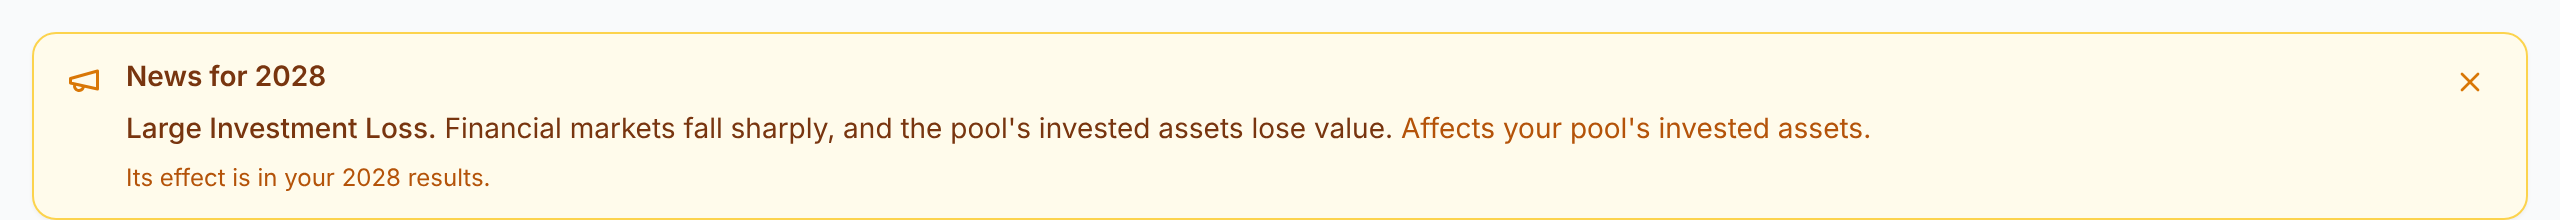
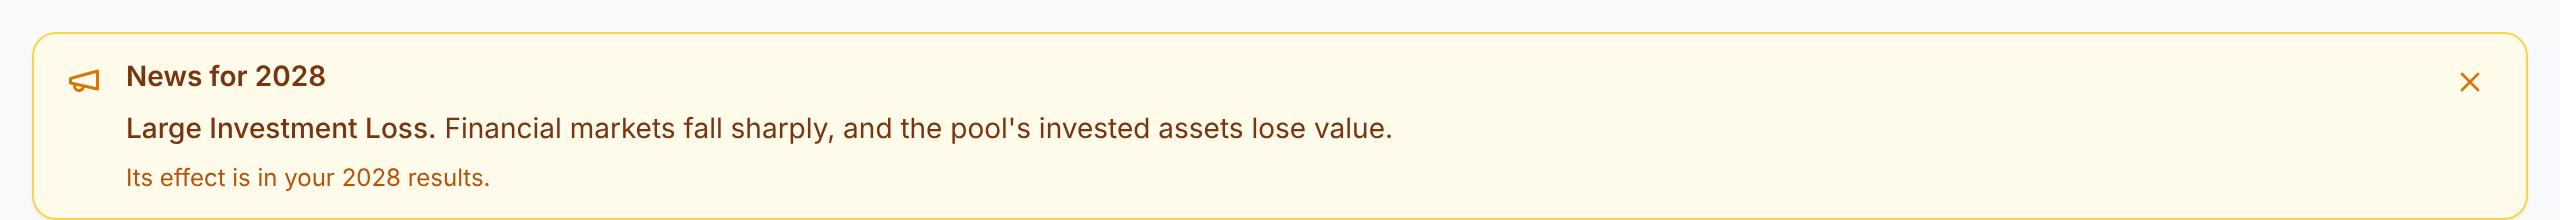
No region or "in force since" on the Results card, Events This Year and claims; Investment Loss names no lines
- Large Investment Loss: the banner's "Affects your pool's invested assets."
  and Events so far's "(investments)" are gone; its sentence says it.
- eventLabel is the player name alone: the Results page events card, the
  "Events This Year" results row and the claims list and download
  (claimEventLabel) no longer name a region. The Results card no longer prints
  "in force since year N". All hidden today; held anyway. The Year
  Walkthrough keeps its region row.
- event-news-coverage-check part 5: every year, pool and line, the Events
  This Year row and every event claim's label, scanned for a region, "in
  force since" and a duration; a regional event's claims carry its name; the
  Results card's source prints no start year. Controls: a region back in the
  row, a region back on the claims, "in force since year {…}" back on the card.
  claims-workbook-check expects "Earthquake" / "Catastrophe" alone.
- event-news-all 159/159: Investment Loss's banner and Events so far row carry
  no lines line. Its banner screenshot retaken.
- SOLO_EXPORT_GUARD_v137: 4 MAMC6EA4 Property workbooks, 16 rows, every one
  the Events This Year row with " — South region" removed. Render holds at v138.

Claude-Session: https://claude.ai/code/session_01VMrLqpEBTHUf5CMsbo4smM

Changed region(s): [[0.5312, 0.5182, 0.75, 0.6273]]

diff --git a/scripts/diagnostics/event-news-coverage-check.ts b/scripts/diagnostics/event-news-coverage-check.ts
@@ -28,6 +28,10 @@
 //   4. ONE NAME: the Year Walkthrough's name for every catalogue key is the
 //      player's, the host's label is '#n Name', and the Year Walkthrough gives
 //      Investment Loss and Member Withdrawal their rows.
+//   5. THE RESULTS CARD, THE "EVENTS THIS YEAR" ROW AND THE CLAIMS name an
+//      event by its player name alone — no region, no "in force since year N"
+//      (hidden today, held anyway). The Year Walkthrough keeps its region row.
+//   Investment Loss names no lines: its sentence says what it touched.
 //
 // ⚠ THE EXPECTATIONS ARE WRITTEN OUT HERE — the names, the wording, the years —
 // not read from the code they grade. Each part has a CONTROL that breaks it at
@@ -39,12 +43,15 @@ import { runPriorHistory } from '../../src/utils/priorHistoryEngine';
 import { defaultDecisionSet } from '../../src/utils/decisionDefaults';
 import { processYear } from '../../src/utils/simulationEngine';
 import { seedFromInstanceId } from '../../src/seedHash';
-import { eventDescription, eventNewsByYear, EVENT_DESCRIPTIONS, type EventNews } from '../../src/utils/yearEvents';
+import { claimEventLabel, eventDescription, eventLabel, eventNewsByYear, EVENT_DESCRIPTIONS, yearEvents, type EventNews } from '../../src/utils/yearEvents';
+import { RESULT_METRICS } from '../../src/utils/resultMetrics';
+import { readFileSync } from 'node:fs';
+import { fileURLToPath } from 'node:url';
 import {
   catalogueDisplayName, hostShockLabel, POOL_WIDE_EVENTS, SHOCK_EVENTS, SHOCK_EVENT_LABELS,
 } from '../../src/utils/shockLosses';
 import { buildYearWalkthrough } from '../../src/utils/yearWalkthrough';
-import type { CoverageLine, GameSetupSettings, GameState, ResultSet } from '../../src/types/simulation';
+import type { Claim, CoverageLine, GameSetupSettings, GameState, LineResultSet, Occurrence, ResultSet } from '../../src/types/simulation';
 
 // ---- THE DESIGN, WRITTEN OUT ------------------------------------------------
 // id -> [player name, host name, regional, lines it touches (all three lines in play), WC alone touched?]
@@ -142,9 +149,8 @@ function partNews(): string[] {
     for (let y = 1; y <= YEARS; y++) if (y !== FIRE && banner(news, y).length) out.push(`${id}: a banner in year ${y} (${banner(news, y).map(x => x.label).join(' | ')})`);
     if (n.label !== name) out.push(`${id}: label "${n.label}", wanted "${name}"${regional ? ' (a regional event: no region)' : ''}`);
     if (JSON.stringify(n.lines) !== JSON.stringify(lines)) out.push(`${id}: lines ${n.lines.join(',')}, wanted ${lines.join(',')}`);
-    if (id === '#11' && !/invested assets/.test(n.affects ?? '')) out.push(`#11: says it affects "${n.affects}", wanted the invested assets`);
     if (n.description !== WORDING[id]) out.push(`${id}: description "${n.description}", wanted "${WORDING[id]}"`);
-    const extra = Object.keys(n).filter(k => !['key', 'label', 'description', 'lines', 'affects'].includes(k));
+    const extra = Object.keys(n).filter(k => !['key', 'label', 'description', 'lines'].includes(k));
     if (extra.length) out.push(`${id}: an extra field on the news (${extra.join(', ')})`);
     const rows = panel(news);
     if (!rows.some(r => r.y === FIRE && r.n.label === n.label)) out.push(`${id}: not in Events so far for ${2025 + FIRE}`);
@@ -172,6 +178,56 @@ function partNoDuration(): string[] {
     }
   }
   for (const name of Object.keys(EVENT_DESCRIPTIONS)) scan(`description of ${name}`, eventDescription(name));
+  return out;
+}
+
+// ---- 5. RESULTS, EVENTS THIS YEAR, CLAIMS -----------------------------------------
+// The Results page's events card, the "Events This Year" results row and the
+// claims list and download name an event by its player name alone: no region,
+// no "in force since year N" (pr/event-wording). The Year Walkthrough keeps its
+// region row (not read here). Each event's game, every year, the pool and each
+// line; every claim an event brought; and the card's source, which prints the
+// label.
+let metricOf = (r: LineResultSet) => String(RESULT_METRICS.find(m => m.key === 'yearEvents')!.value(r));
+let claimLabelOf = (c: Claim, o?: Occurrence) => claimEventLabel(c, o);
+let resultsPageSource = readFileSync(fileURLToPath(new URL('../../src/pages/ResultsPage.tsx', import.meta.url)), 'utf8');
+const SINCE = /in force|since year/i;
+function partResults(): string[] {
+  const out: string[] = [];
+  const scan = (where: string, text: string) => {
+    for (const [what, re] of [['region', REGION], ['"in force since"', SINCE], ['duration', DURATION]] as const) {
+      const m = text.match(re);
+      if (m) out.push(`${where}: ${what} "${m[0]}" in "${text}"`);
+    }
+  };
+  for (const [id, rs] of games) {
+    const [name, , regional] = DESIGN[id];
+    let named = 0;
+    for (const r of rs.filter(x => x.yearNumber >= 1)) {
+      const scopes: [string, LineResultSet][] = [['pool', r as unknown as LineResultSet],
+        ...Object.entries(r.byLine ?? {}).map(([l, x]) => [l, x] as [string, LineResultSet])];
+      for (const [scope, x] of scopes) {
+        scan(`${id} year ${r.yearNumber} ${scope} Events This Year`, metricOf(x));
+        for (const ev of yearEvents(x)) {
+          if (eventLabel(ev.name) !== ev.name) out.push(`${id} year ${r.yearNumber} ${scope}: card label "${eventLabel(ev.name)}", wanted "${ev.name}"`);
+        }
+        if (scope === 'pool') continue;
+        const occ = new Map((x.occurrences ?? []).map(o => [o.id, o]));
+        for (const c of x.claims ?? []) {
+          const label = claimLabelOf(c, c.occurrenceId !== undefined ? occ.get(c.occurrenceId) : undefined);
+          if (label === undefined) continue;
+          scan(`${id} year ${r.yearNumber} ${scope} claim ${c.id}`, label);
+          if (c.shockId === id && label === name) named++;
+        }
+      }
+    }
+    if (regional && named === 0) out.push(`${id}: no claim labelled "${name}" (the regional event's large claim)`);
+  }
+  // The card prints eventLabel and nothing after it.
+  // (What it prints, not its comments: the year it read off the event.)
+  const printed = resultsPageSource.match(/in force since year \{|\bev\.sinceYear\b/);
+  if (printed) out.push(`ResultsPage.tsx still prints the year an event began ("${printed[0]}")`);
+  if (/eventLabel\([^)]*region/.test(resultsPageSource)) out.push('ResultsPage.tsx passes a region to eventLabel');
   return out;
 }
 
@@ -221,6 +277,9 @@ console.log('4. One name');
 check(partNames(), "every catalogue key reads the player's name; the host's label is '#n Name'");
 check(partWalkthrough(), 'the Year Walkthrough gives Investment Loss and Member Withdrawal rows');
 
+console.log('5. Results card, "Events This Year" row, claims list and download');
+check(partResults(), 'the name alone: no region, no "in force since"');
+
 console.log('Controls');
 const pool = POOL_WIDE_EVENTS as string[];
 control('Investment Loss off the pool-wide list (the off-map read)', () => {
@@ -267,6 +326,21 @@ control('an extra field back on the news (a "lasting" line on Nuclear Verdict)',
   newsOf = rs => new Map([...real(rs)].map(([y, ns]) => [y, ns.map(n => (n.label === 'Nuclear Verdict' ? { ...n, lasting: 'It also makes older liability claims grow.' } : n))]));
   return () => { newsOf = real; };
 }, partNews);
+control('a region back in the "Events This Year" row ("Earthquake — Central region: 1 claim")', () => {
+  const real = metricOf;
+  metricOf = r => real(r).replace(/\bEarthquake\b/, 'Earthquake — Central region');
+  return () => { metricOf = real; };
+}, partResults);
+control('a region back on the claims ("Wildfire — North region")', () => {
+  const real = claimLabelOf;
+  claimLabelOf = (c, o) => { const l = real(c, o); return l === 'Wildfire' ? 'Wildfire — North region' : l; };
+  return () => { claimLabelOf = real; };
+}, partResults);
+control('"in force since year N" back on the Results card', () => {
+  const real = resultsPageSource;
+  resultsPageSource = real + '\n<span>in force since year {ev.sinceYear}</span>';
+  return () => { resultsPageSource = real; };
+}, partResults);
 control("#11's player name put back to the catalogue key", () => {
   const l = SHOCK_EVENT_LABELS['#11'] as { eventName: string };
   const n = l.eventName; l.eventName = 'Investment Loss'; return () => { l.eventName = n; };

diff --git a/src/utils/yearEvents.ts b/src/utils/yearEvents.ts
@@ -41,9 +41,14 @@ export function drawnEventName(peril: string | undefined): string {
   return (peril !== undefined ? DRAWN_EVENT_NAME[peril] : undefined) ?? 'Catastrophe';
 }
 
-/** "Earthquake — Central region", or the bare name when the event struck no one region. */
-export function eventLabel(name: string, region?: Region): string {
-  return region ? `${name} — ${region} region` : name;
+/**
+ * An event as a player reads it on the Results card, the "Events This Year"
+ * row and the claims: its player name alone. ⚠ NO REGION (pr/event-wording):
+ * players are not told where a regional event struck; the engine still places
+ * its large claim, and the Year Walkthrough keeps its region row.
+ */
+export function eventLabel(name: string): string {
+  return name;
 }
 
 export interface YearEventLine {
@@ -172,17 +177,11 @@ export function yearEvents(result: AnyResult): YearEvent[] {
 /** The event a claim came from, as a player reads it — or undefined for an ordinary claim. */
 export function claimEventLabel(claim: Claim, occurrence?: Occurrence): string | undefined {
   if (claim.shockId !== undefined) {
-    // ⚠ A REGIONAL EVENT NAMES THE REGION IT ACTUALLY STRUCK — the occurrence's.
-    // The retired catalogue fixed one region per event, but the new engine
-    // draws the struck region per firing; the catalogue's region is only the
-    // fallback when no occurrence is to hand, as it was before 3b.
-    const regional = SHOCK_EVENTS.find(e => e.id === claim.shockId)?.regional ?? false;
-    const fixed = RETIRED_CATALOGUE_REGION[claim.shockId]?.[claim.line];
-    return eventLabel(SHOCK_EVENT_LABELS[claim.shockId]?.eventName ?? claim.shockId,
-      regional ? (occurrence?.region ?? fixed) : fixed);
+    // ⚠ THE NAME ALONE, NO REGION (pr/event-wording) — eventLabel.
+    return eventLabel(SHOCK_EVENT_LABELS[claim.shockId]?.eventName ?? claim.shockId);
   }
   if (claim.line === 'Property' && claim.tier === CAT_TIER && occurrence?.isCatastrophe) {
-    return eventLabel(drawnEventName(occurrence.peril), occurrence.region);
+    return eventLabel(drawnEventName(occurrence.peril));
   }
   return undefined;
 }
@@ -271,10 +270,12 @@ export const EVENT_DESCRIPTIONS: Readonly<Record<string, string>> = {
 export function eventDescription(name: string): string {
   return EVENT_DESCRIPTIONS[name] ?? EVENT_DESCRIPTIONS['Catastrophe'];
 }
-/** What an off-map event touches, in place of the lines, where it is not the lines. */
-const OFF_MAP_AFFECTS: Readonly<Record<string, string>> = {
-  'Investment Loss': "your pool's invested assets",
-};
+/**
+ * The off-map events whose news names no lines: Investment Loss touches the
+ * invested assets, which its sentence already says, so the banner has no
+ * "Your lines affected" line for it and Events so far no lines in brackets.
+ */
+const NO_LINES: readonly string[] = ['Investment Loss'];
 
 export interface EventNews {
   /** Stable within the year. Not for display. */
@@ -282,10 +283,8 @@ export interface EventNews {
   /** The player's name, "Earthquake" — never a region. */
   label: string;
   description: string;
-  /** The team's own lines the event touched, in the game's line order. Empty when `affects` says what it touched instead. */
+  /** The team's own lines the event touched, in the game's line order. Empty for Investment Loss (NO_LINES): nothing more is said. */
   lines: CoverageLine[];
-  /** What it touched where that is not the lines — Investment Loss: "your pool's invested assets". */
-  affects?: string;
 }
 
 const NEWS_LINE_ORDER: readonly CoverageLine[] = ['WC', 'GL', 'Property'];
@@ -319,9 +318,9 @@ export function eventNewsByYear(results: readonly AnyResult[]): Map<number, Even
   const seen = new Set<string>();
   for (const r of [...results].filter(x => x.yearNumber >= 1).sort((a, b) => a.yearNumber - b.yearNumber)) {
     const news: EventNews[] = [];
-    const told = (key: string, name: string, lines: CoverageLine[], affects?: string) => {
+    const told = (key: string, name: string, lines: CoverageLine[]) => {
       // ⚠ THE PLAYER'S NAME ALONE — no region (pr/event-wording).
-      news.push({ key, label: name, description: eventDescription(name), lines, ...(affects ? { affects } : {}) });
+      news.push({ key, label: name, description: eventDescription(name), lines });
     };
     for (const ev of yearEvents(r)) {
       const id = `${ev.key}|${ev.sinceYear ?? r.yearNumber}`;
@@ -341,8 +340,7 @@ export function eventNewsByYear(results: readonly AnyResult[]): Map<number, Even
       const lines = recordLines(rec);
       if (lines.length === 0) continue;
       seen.add(id);
-      const affects = OFF_MAP_AFFECTS[e.name];
-      told(rec.shockId, shockName(rec), affects ? [] : lines, affects);
+      told(rec.shockId, shockName(rec), NO_LINES.includes(e.name) ? [] : lines);
     }
     out.set(r.yearNumber, news);
   }

diff --git a/src/components/EventNews.tsx b/src/components/EventNews.tsx
@@ -21,8 +21,8 @@ import { eventNewsByYear, type EventNews } from '../utils/yearEvents';
 import { LINE_FULL_NAME } from '../utils/lineDisplay';
 
 const linesText = (n: EventNews) => n.lines.map(l => LINE_FULL_NAME[l]).join(', ');
-/** The banner's "what it touched": the team's lines, or what it touched instead (Investment Loss: the invested assets). */
-const affectedText = (n: EventNews) => (n.affects ? `Affects ${n.affects}.` : `Your lines affected: ${linesText(n)}.`);
+/** The banner's "Your lines affected" — none for an event that names no lines (Investment Loss: its sentence says what it touched). */
+const affectedText = (n: EventNews) => (n.lines.length ? `Your lines affected: ${linesText(n)}.` : '');
 
 /** The banner: the events new in the year just played, until dismissed. */
 export function EventNewsBanner({ played, startingYear }: { played: ResultSet[]; startingYear: number }) {
@@ -70,7 +70,7 @@ export function EventsPanel({ played, startingYear }: { played: ResultSet[]; sta
               <span className="font-mono text-gray-500">{year}</span>{' '}
               <span className="font-medium">{n.label}</span>
               {' '}— {n.description}{' '}
-              <span className="text-gray-500">({n.affects ? 'investments' : linesText(n)})</span>
+              {n.lines.length > 0 && <span className="text-gray-500">({linesText(n)})</span>}
             </li>
           ))}
         </ul>

diff --git a/scripts/diagnostics/claims-workbook-check.ts b/scripts/diagnostics/claims-workbook-check.ts
@@ -217,8 +217,8 @@ for (const arm of ARMS) {
       const iStatus = header.indexOf('Status');
       const iOcc = header.indexOf('Occurrence ID');
       // THE EVENT COLUMN. These games schedule nothing, so the only events are
-      // DRAWN catastrophes: a Property row of the cat band names one ("Earthquake
-      // — Central region" or "Catastrophe — ..."), and every other row is blank.
+      // DRAWN catastrophes: a Property row of the cat band names one by its name
+      // alone ("Earthquake" or "Catastrophe", no region), and every other row is blank.
       // shock-check covers the scheduled side and the label's equality across it.
       const iEvent = header.indexOf('Event');
       const iBand = header.indexOf(line === 'Property' ? 'Band' : 'Component');
@@ -265,7 +265,9 @@ for (const arm of ARMS) {
           const isCat = line === 'Property' && r[iBand] === 'cat';
           if (isCat) {
             s.eventRows++;
-            if (!/^(Earthquake|Catastrophe) — (North|Central|South) region$/.test(ev)) {
+            // ⚠ THE NAME ALONE (pr/event-wording): players are not told where a
+            // regional event struck, so the Event column carries no region.
+            if (!/^(Earthquake|Catastrophe)$/.test(ev)) {
               fail(`${arm.name} g${g} ${line} row ${i}: a catastrophe claim's Event reads "${ev}"`);
             }
           } else if (ev !== '') {

diff --git a/scripts/diagnostics/solo-export-guard.ts b/scripts/diagnostics/solo-export-guard.ts
@@ -1310,7 +1310,16 @@ const __dirname = path.dirname(fileURLToPath(import.meta.url));
 // every figure reads as before. The statement workbooks are byte-identical.
 // The players-are-not-told-durations wording (the news and Events so far) is
 // in no export, so it moves nothing here.
-const BASELINE = path.join(__dirname, '../../baselines/SOLO_EXPORT_GUARD_v136.json');
+// v137: NO REGION IN THE "EVENTS THIS YEAR" ROW (pr/event-wording, on aws
+// 0c1894ab, which reproduces v136 here 48 of 48 first). 4 of 48 keys move:
+// MAMC6EA4's Results workbooks with Property in them (def and sqz; Property
+// alone and three lines), whose schedule fires a Wildfire. Text-diffed against
+// the control (GUARD_TEXT_DIR both sides): 16 rows move, every one the
+// "Events This Year" row, each the control's with " — South region" removed
+// ("Wildfire — South region: 1.0 claims, $35,407,757" -> "Wildfire: 1.0
+// claims, $35,407,757"), and nothing else. No figure, no code, no other row.
+// The statement workbooks are byte-identical.
+const BASELINE = path.join(__dirname, '../../baselines/SOLO_EXPORT_GUARD_v137.json');
 
 const sha = (b: Buffer) => crypto.createHash('sha256').update(b).digest('hex');
 

diff --git a/src/pages/ResultsPage.tsx b/src/pages/ResultsPage.tsx
@@ -194,10 +194,8 @@ export default function ResultsPage({ lockedResults, lineView, roomMarketShare }
               {yearEvents(result).map(ev => (
                 <div key={ev.key} className="pl-8 text-sm">
                   <p className="font-semibold text-amber-900">
-                    {eventLabel(ev.name, ev.region)}
-                    {ev.sinceYear !== undefined && (
-                      <span className="ml-2 font-normal text-amber-700">in force since year {ev.sinceYear}</span>
-                    )}
+                    {/* ⚠ THE NAME ALONE: no region, no "in force since year N" (pr/event-wording). */}
+                    {eventLabel(ev.name)}
                     {/* ⚠ NO "in N of M worlds" — players are never told about the
                         worlds (docs/PENDING_MULTIPLAYER.md §0). The figures below are
                         the averaged row's, as every figure on the page is. */}

diff --git a/src/utils/resultMetrics.ts b/src/utils/resultMetrics.ts
@@ -393,7 +393,7 @@ export const RESULT_METRICS: SpreadsheetMetric[] = [
         return evs.map(ev => {
           // An averaged row (loss engine commit 4b) says in how many worlds it fired.
           // ⚠ NO "(in N of M worlds)" — players are never told about the worlds.
-          const label = eventLabel(ev.name, ev.region);
+          const label = eventLabel(ev.name);
           const claims = Number.isInteger(ev.claims) ? String(ev.claims) : ev.claims.toFixed(1);
           if (ev.claims > 0) return `${label}: ${claims} claim${ev.claims === 1 ? '' : 's'}, ${formatCurrency(ev.grossLoss)}`;
           // An uplift on the year's ordinary losses: real dollars, no claim.

diff --git a/docs/HOW_THE_GAME_WORKS.md b/docs/HOW_THE_GAME_WORKS.md
@@ -295,8 +295,8 @@ rest to none or zero.
 - **Large claims** come only from those events.
 - **What players are told about an event:** every event, in the year it fires, gets a news banner and an entry under
   *Events so far* (Decisions page): its player name, one sentence, and which of the team's lines it touches (Large
-  Investment Loss: "Affects your pool's invested assets."). Nothing else — no region, no figure, no duration, no
-  line on older claims or on what to expect. The sentences, verbatim:
+  Investment Loss names no lines: its sentence says what it touched). Nothing else — no region, no figure, no
+  duration, no line on older claims or on what to expect. The sentences, verbatim:
   - Earthquake — A major earthquake strikes, damaging buildings and injuring people at work.
   - Winterstorm — A severe winter storm brings heavy rain, snow and flooding.
   - Wildfire — A wildfire spreads, burning buildings and land.
@@ -311,8 +311,10 @@ rest to none or zero.
   - Large Investment Loss — Financial markets fall sharply, and the pool's invested assets lose value.
   - Large Member Withdrawal — A large member has left the pool.
 
-  A regional event's name carries no region on the banner or in *Events so far*; the engine still places its large
-  claim in the region it draws. An event is listed once, in the year it fires: no later year carries a note while
+  A regional event's name carries no region on the banner, in *Events so far*, on the Results page's events card,
+  in the "Events This Year" results row, or in the claims list and download (the Results page and the claims are
+  hidden today); the engine still places its large claim in the region it draws, and the Year Walkthrough keeps its
+  region row. The Results card no longer says "in force since year N". An event is listed once, in the year it fires: no later year carries a note while
   an effect is in force, since that would show when it ends. Hosts keep the full details (the schedule, the
   Parameters page, Charts' Events key).
   - **Names:** each event has one player name — the banner, *Events so far*, the Year Walkthrough, the statements
